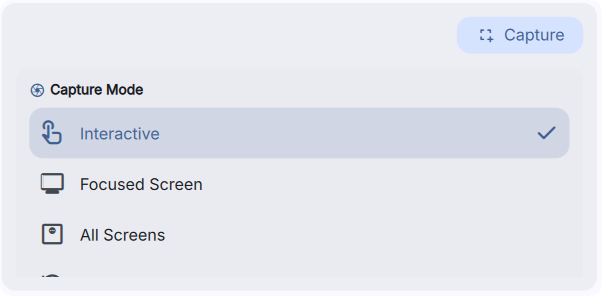
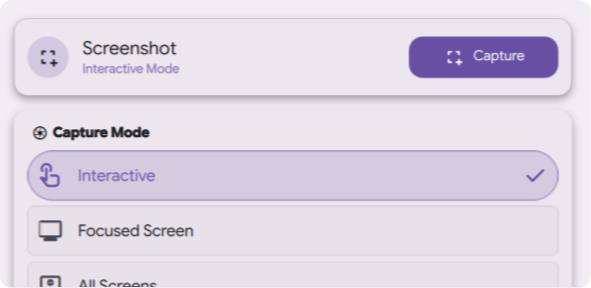
refactor: apply horizontal centering and consistent padding to screenshot widget UI components and assets

diff --git a/ScreenshotWidget.qml b/ScreenshotWidget.qml
@@ -141,11 +141,12 @@ PluginComponent {
             Column {
                 id: ccDetailCol
                 width: parent.width
-            spacing: Theme.spacingM
+                padding: 16
+                spacing: Theme.spacingM
 
             // --- Capture Header Card ---
             StyledRect {
-                width: parent.width; height: 68
+                width: parent.width - 32; anchors.horizontalCenter: parent.horizontalCenter; height: 68
                 radius: Theme.cornerRadius
                 color: Theme.withAlpha(Theme.surfaceContainerHigh, Theme.popupTransparency)
                 border.width: 1
@@ -240,7 +241,7 @@ PluginComponent {
             // --- Settings Form ---
             ScreenshotSettingsForm {
                 id: settingsColumnCC
-                width: parent.width
+                width: parent.width - 32; anchors.horizontalCenter: parent.horizontalCenter
 
                 pluginService: typeof PluginService !== "undefined" ? PluginService : null
                 pluginId: "dmsScreenshot"
@@ -286,12 +287,13 @@ PluginComponent {
             Column {
                 id: popoutMainCol
                 width: parent.width
+                topPadding: 0
+                bottomPadding: 2
                 spacing: Theme.spacingM
-                topPadding: 0; bottomPadding: 2
 
                 // --- Capture Header Card ---
                 StyledRect {
-                    width: parent.width; height: 68
+                    width: parent.width; anchors.horizontalCenter: parent.horizontalCenter; height: 68
                     radius: Theme.cornerRadius
                     color: Theme.withAlpha(Theme.surfaceContainerHigh, Theme.popupTransparency)
                     border.width: 1
@@ -384,7 +386,7 @@ PluginComponent {
 
                 // --- Settings Form ---
                 ScreenshotSettingsForm {
-                    width: parent.width
+                    width: parent.width; anchors.horizontalCenter: parent.horizontalCenter
 
                     pluginService: typeof PluginService !== "undefined" ? PluginService : null
                     pluginId: "dmsScreenshot"

diff --git a/ScreenshotSettingsForm.qml b/ScreenshotSettingsForm.qml
@@ -52,7 +52,7 @@ Column {
 
     // --- Capture Mode Section ---
     StyledRect {
-        width: parent.width
+        width: parent.width; anchors.horizontalCenter: parent.horizontalCenter
         height: modeColumnCC.implicitHeight + Theme.spacingM * 2
         radius: Theme.cornerRadius
         color: Theme.withAlpha(Theme.surfaceContainerHigh, Theme.popupTransparency)
@@ -221,7 +221,7 @@ Column {
 
     // --- Options Section ---
     StyledRect {
-        width: parent.width
+        width: parent.width; anchors.horizontalCenter: parent.horizontalCenter
         height: optionsColumnCC.implicitHeight + Theme.spacingM * 2
         radius: Theme.cornerRadius
         color: Theme.withAlpha(Theme.surfaceContainerHigh, Theme.popupTransparency)
